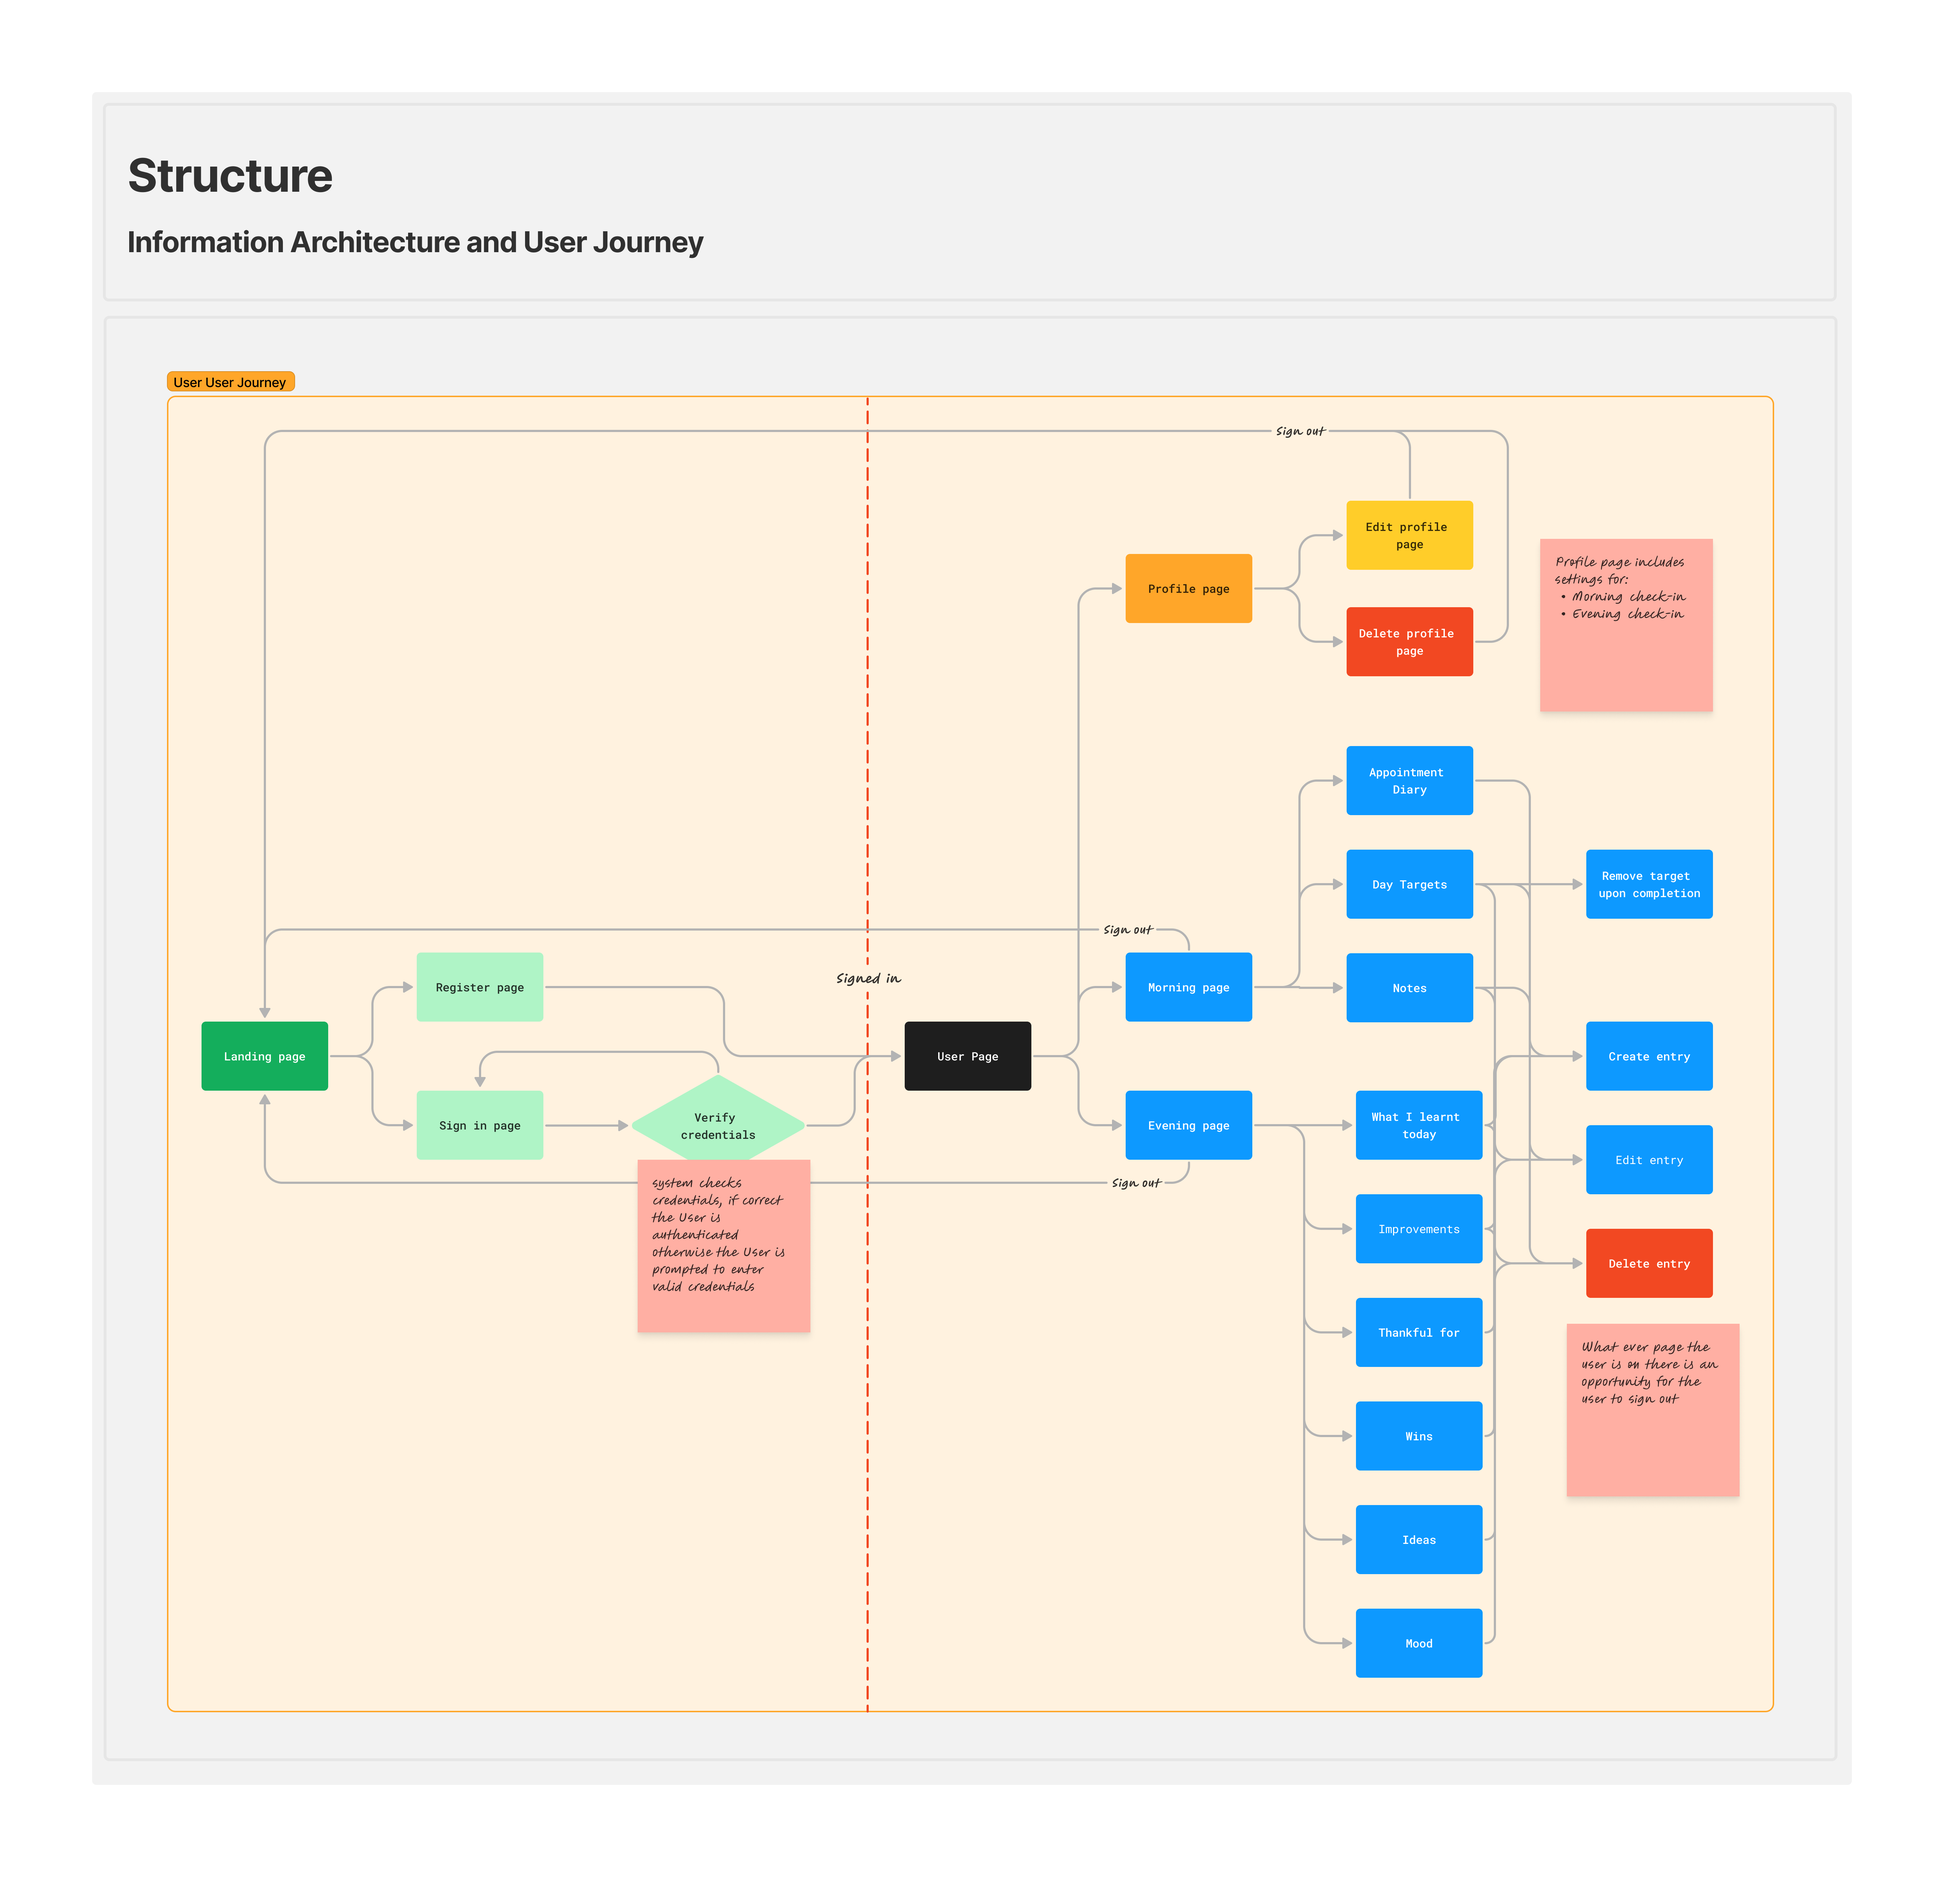
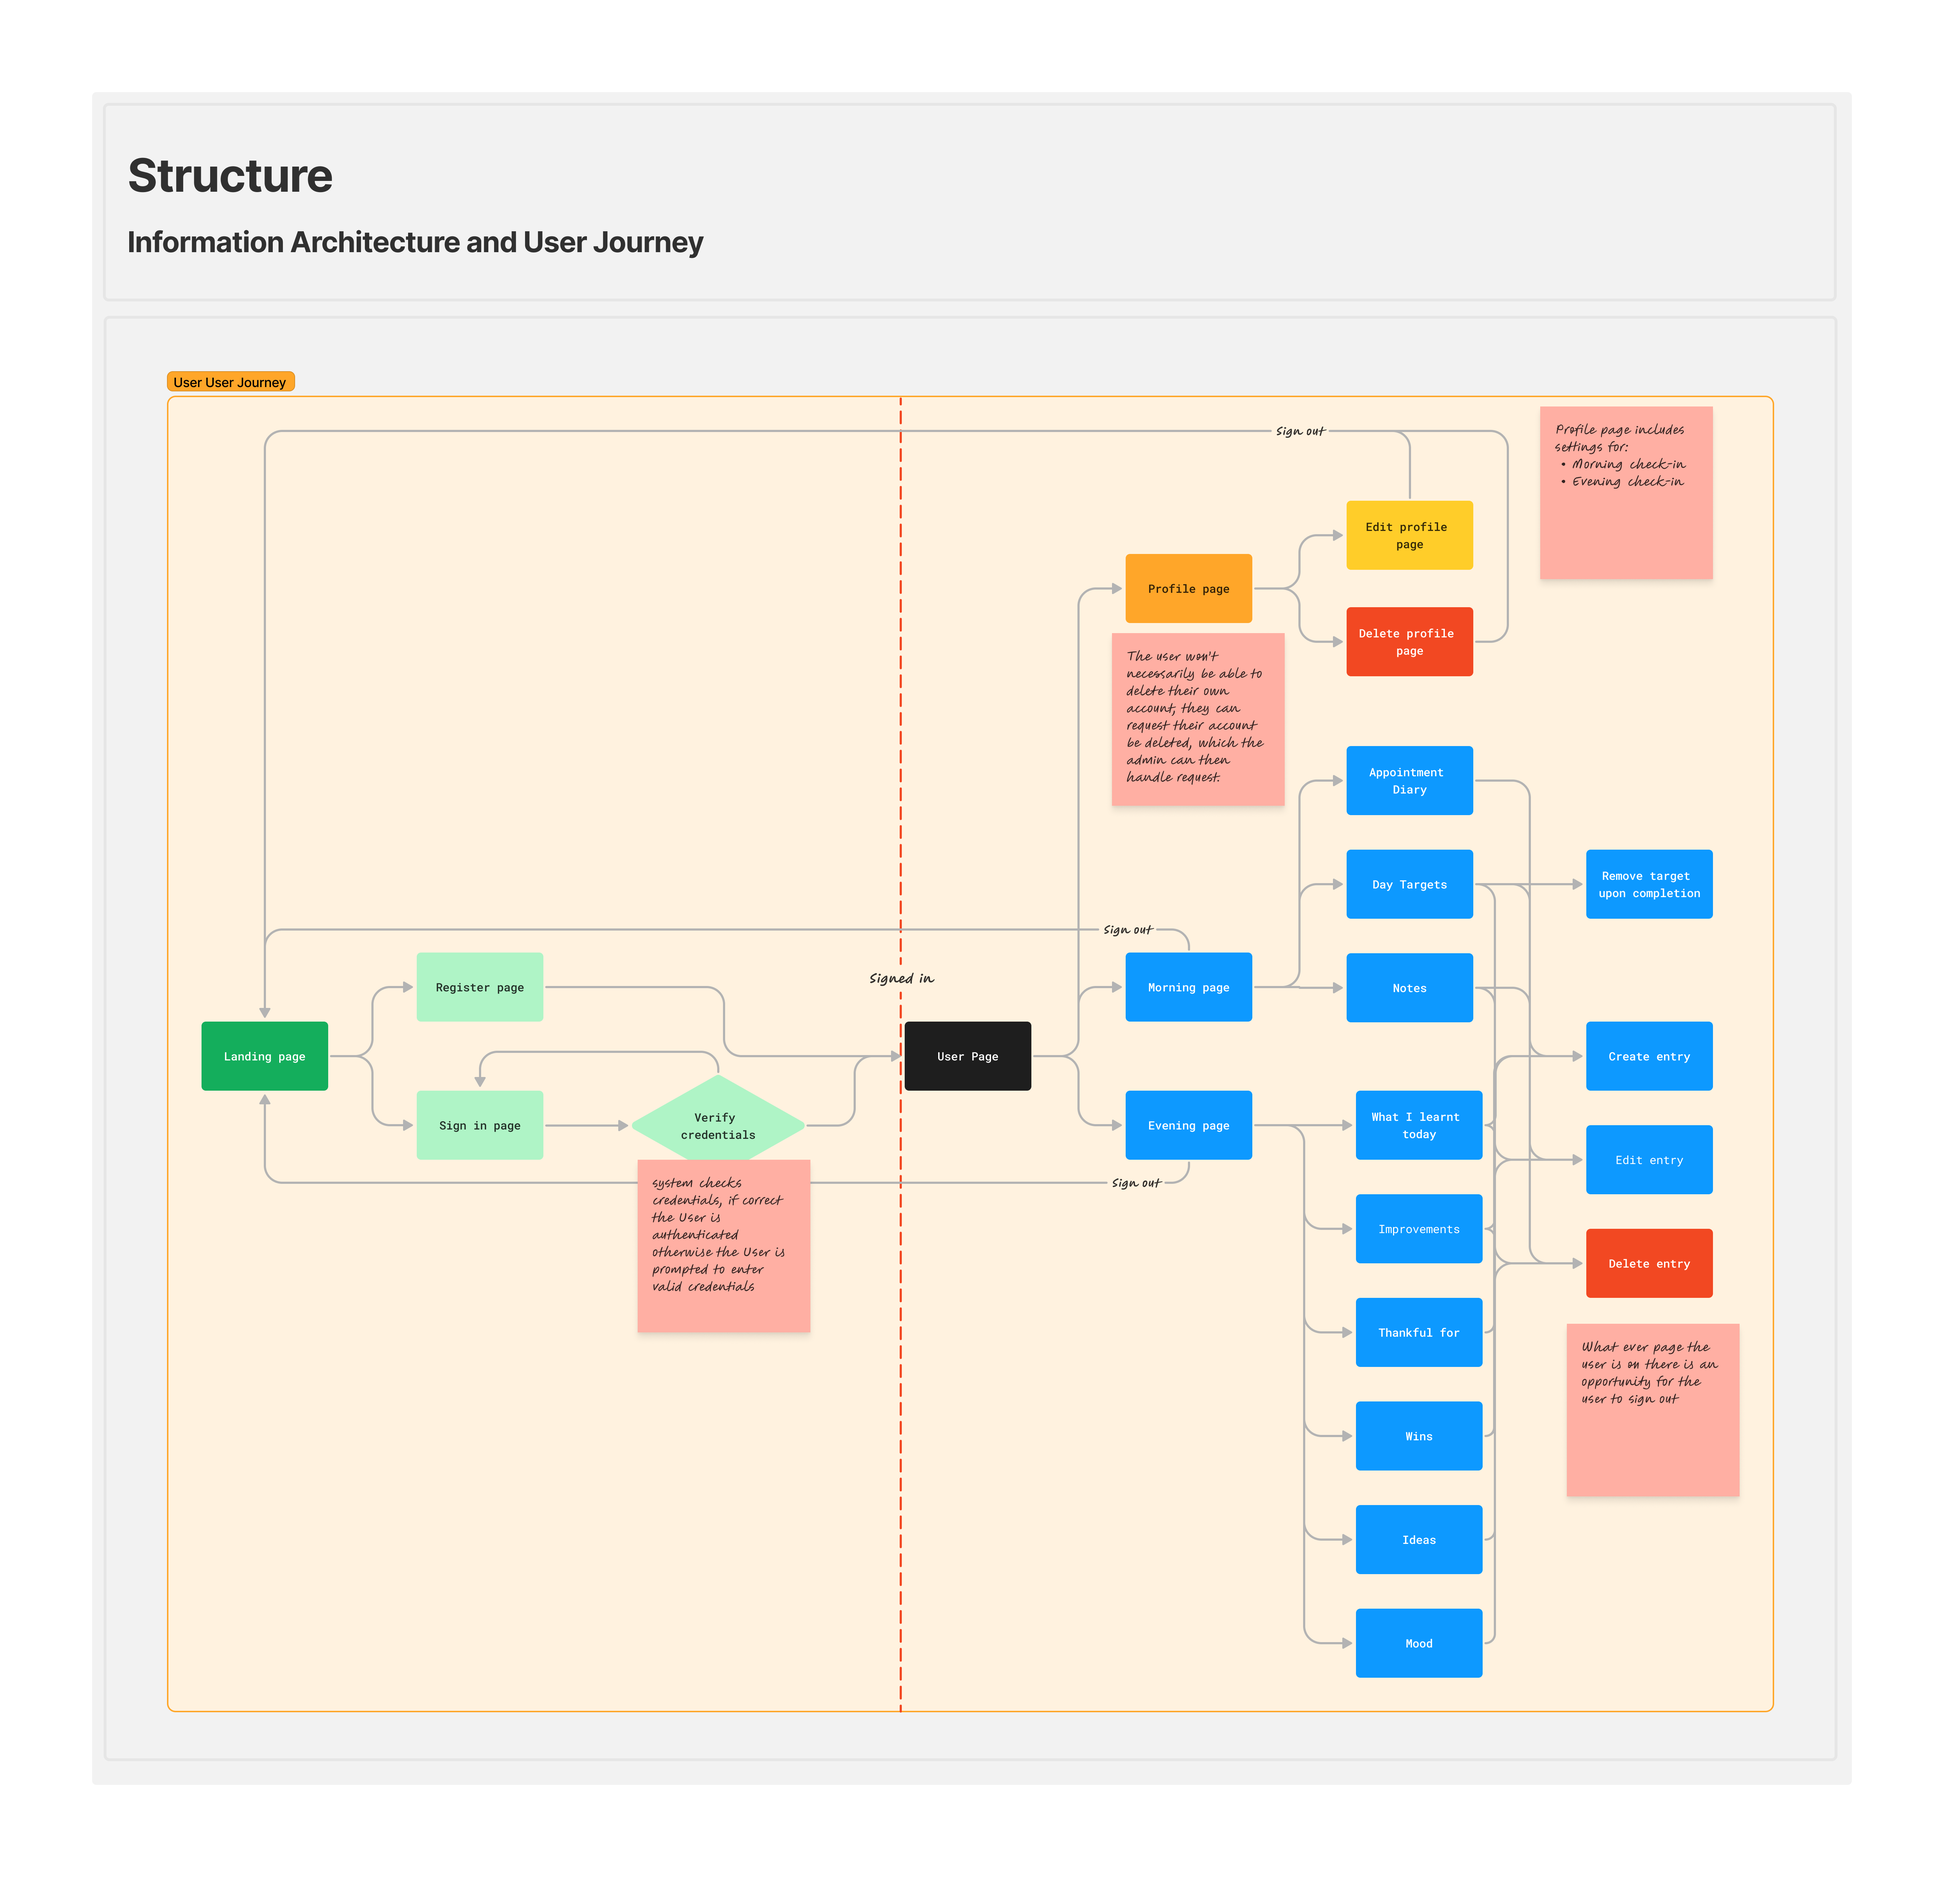
docs: add wireframes and descriptions

Changed region(s): [[0.7775, 0.2187, 0.9019, 0.4061], [0.5598, 0.3124, 0.6842, 0.4373], [0.4354, 0.4998, 0.4665, 0.531]]

diff --git a/docs/ui-ux/five-planes/five-planes.md b/docs/ui-ux/five-planes/five-planes.md
@@ -18,12 +18,9 @@
 - [4. Skeleton Plane](#4-skeleton-plane)
   - [Home page](#home-page)
   - [Features](#features)
-    - [Sign up / Register \& Login / Logout](#sign-up--register--login--logout)
-    - [Morning page](#morning-page)
-    - [Evening page](#evening-page)
+    - [Forms](#forms)
+    - [Morning page (and Evening page)](#morning-page-and-evening-page)
     - [My profile page](#my-profile-page)
-    - [Contact page](#contact-page)
-    - [Modals](#modals)
   - [Navigational Map](#navigational-map)
 - [5. Surface Plane](#5-surface-plane)
   - [Imagery](#imagery)
@@ -377,39 +374,51 @@ The simple User Journey represents the typical flow of actions for the Admin in 
 
 #### Repo Management
 
-The Repository is the main component in this Information Architecture. The User Journey includes login to ensure secure access to the repository functionality for authorised users only. 
+The Repository is the main component in this Information Architecture. The User Journey includes login to ensure secure access to the repository functionality for authorised users only.
 
 ![Structure: Repository User Journey](../../media/images/structure_repo-user-journey.png)
 
 ## 4. Skeleton Plane
 
+The Skeleton Plan wireframes serve as the foundational blueprint for the visual layout and structure of the web application. It focuses on defining the overall composition of the pages, including the placement of key elements and sections. The wireframes provides a visual representation of the basic skeletal structure of the app's pages, guiding the subsequent design and development processes. It outlines the general arrangement of the header, content sections, and footer ensuring a consistent and user-friendly interface throughout the application.
+
 ### Home page
+
+![Skeleton: Wireframe - Home page](../../media/images/skeleton_wireframe-home.png)
+
+By keeping the home page clean and uncluttered, users can easily grasp the core concept of the app without overwhelming distractions. The about summary section provides a brief description of the app, highlighting its key features and benefits. To enhance user engagement and encourage interaction, each section includes a Call To Action (CTA) button. These CTAs prompt users to sign up for the app.
 
 ---
 
 ### Features
 
-#### Sign up / Register & Login / Logout
+#### Forms
+
+![Skeleton: Wireframe - Form](../../media/images/skeleton_wireframes-forms.png)
+
+Dividing a form into steps can significantly enhance the user experience by providing clarity, reducing cognitive load, maintaining focus, improving error handling and increasing user engagement. Clear progress indicators so users can easily understand their progress and know how much they need to complete.
+
+Types of forms:
+- Sign up
+- Login
+- Contact form
+  - Using a contact form rather than an email link was the chosen option to provide the user with a seamless experience allowing user to submit inquiries or feedback without leaving the app. Also, this allows users to feel confident in submitting inquiries as it offers privacy and security.
 
 ---
 
-#### Morning page
+#### Morning page (and Evening page)
 
----
+![Skeleton: Wireframe - Morning Page](../../media/images/skeleton_wireframes-morning-page.png)
 
-#### Evening page
+The decision to use collapsible sections on mobile devices while keeping them open and expanded on desktop is based on optimising the user experience for different screen sizes and device capabilities.
 
 ---
 
 #### My profile page
 
----
-
-#### Contact page
+![Skeleton: Wireframe - Account Settings Page](../../media/images/skeleton_wireframes-profile-page.png)
 
 ---
-
-#### Modals
 
 ### Navigational Map
 
